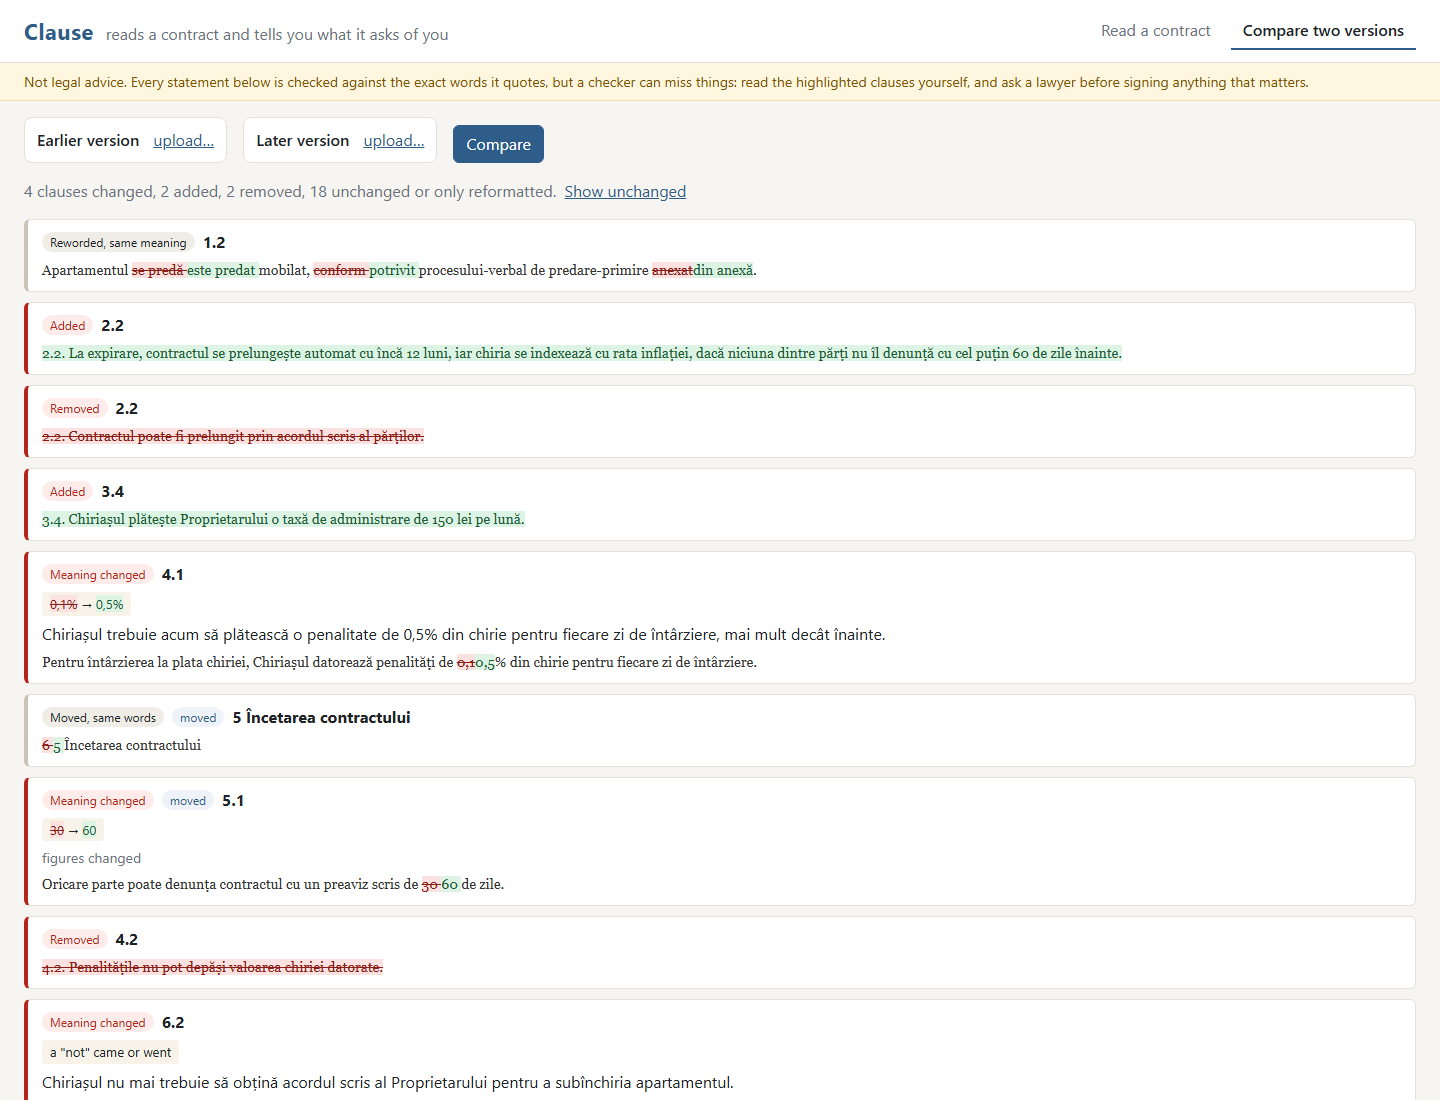
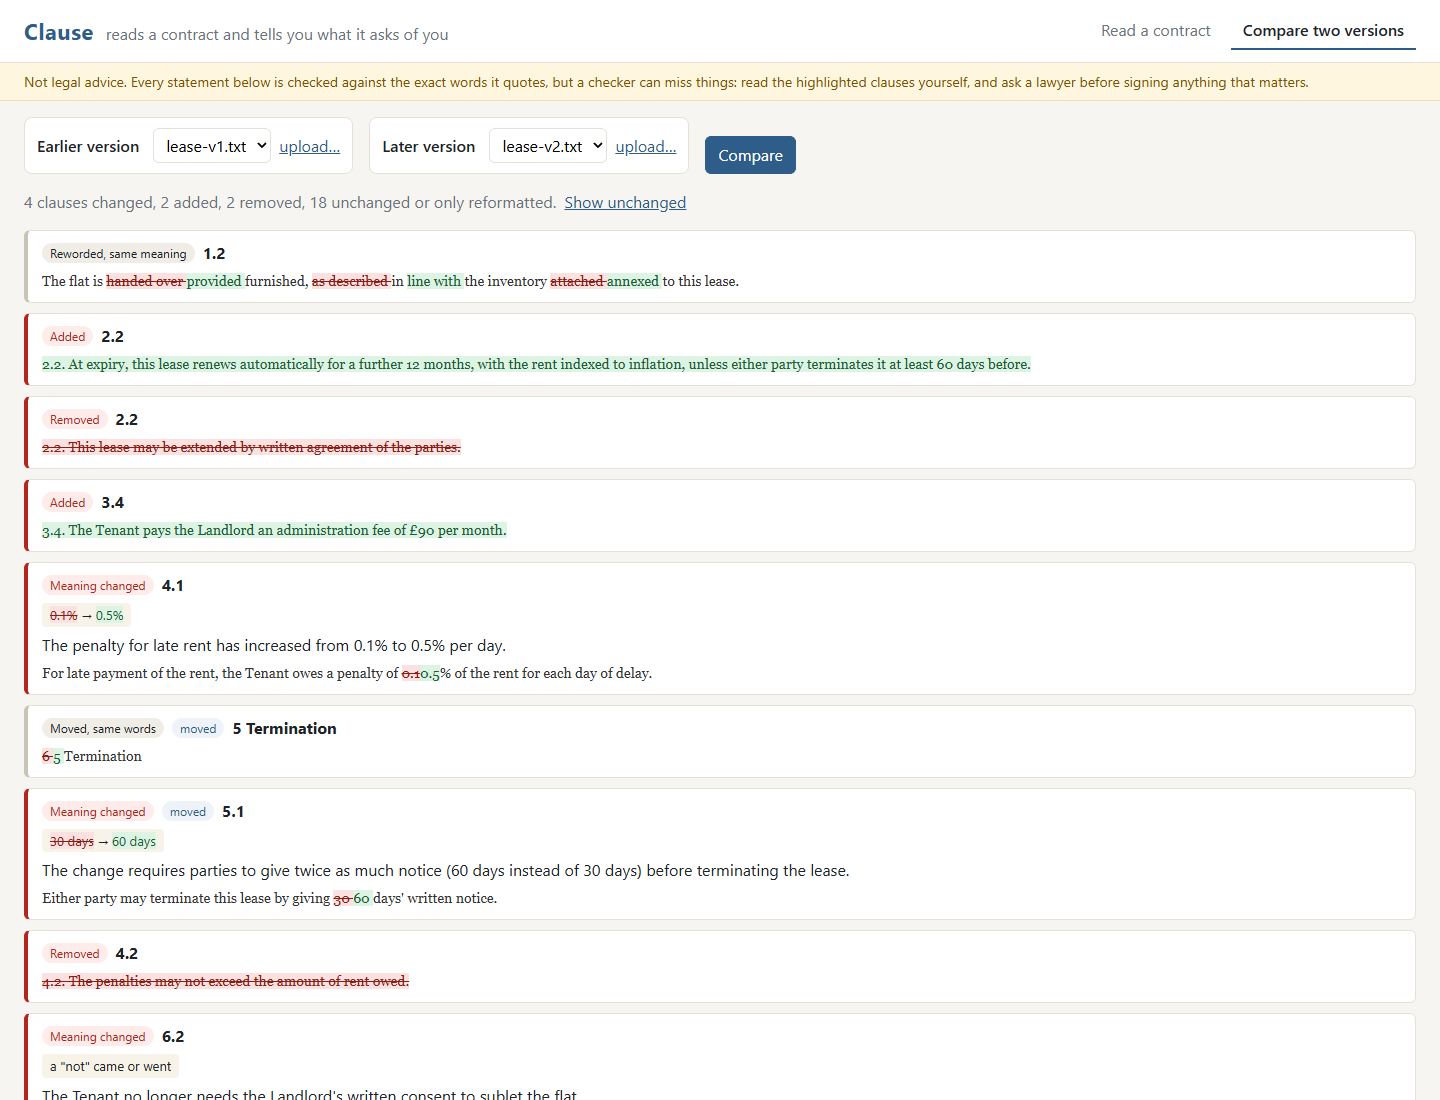
Screenshots in English, with an English sample lease
The README screenshots now show the English lease (samples/lease-v1.txt and lease-v2.txt):
the findings checked against their quotes, and the two versions compared. The Romanian lease
stays in samples/.

Changed region(s): [[0.0, 0.3709, 0.9688, 1.0], [0.0312, 0.0927, 0.7812, 0.34]]

diff --git a/README.md b/README.md
@@ -21,8 +21,9 @@ computer: the contract never leaves it.
 
 ![Comparing two versions: what changed in meaning, and the figures that changed](docs/compare.png)
 
-The screenshots use [samples/](samples/), a lease written for this demo in Romanian (one of the
-two languages Clause reads, with English).
+The screenshots use the English lease in [samples/](samples/) (`lease-v1.txt` and `lease-v2.txt`),
+written for this demo. The folder also has the same lease in Romanian (`chirie-v1.txt` and
+`chirie-v2.txt`), the other language Clause reads.
 
 ## How it works
 
@@ -325,7 +326,7 @@ Run them with the backend and the analysis service up.
 backend/    Spring Boot: document/ (reading, clause splitting), diff/ (facts, word diff, alignment), web/ (API, in-memory store)
 service/    Python: extract.py (the model), anchor.py, numbers.py, nli.py, verify.py (the checks), compare.py, server.py, evaluate_*.py
 frontend/   Vue 3 + TypeScript: the contract with quotes highlighted, the findings, the comparison
-samples/    a Romanian lease in two versions, written for the demo
+samples/    a lease in two versions, in English and in Romanian, written for the demo
 bench/      the hand labels of 99 findings
 results/    every number above, as JSON
 ```
